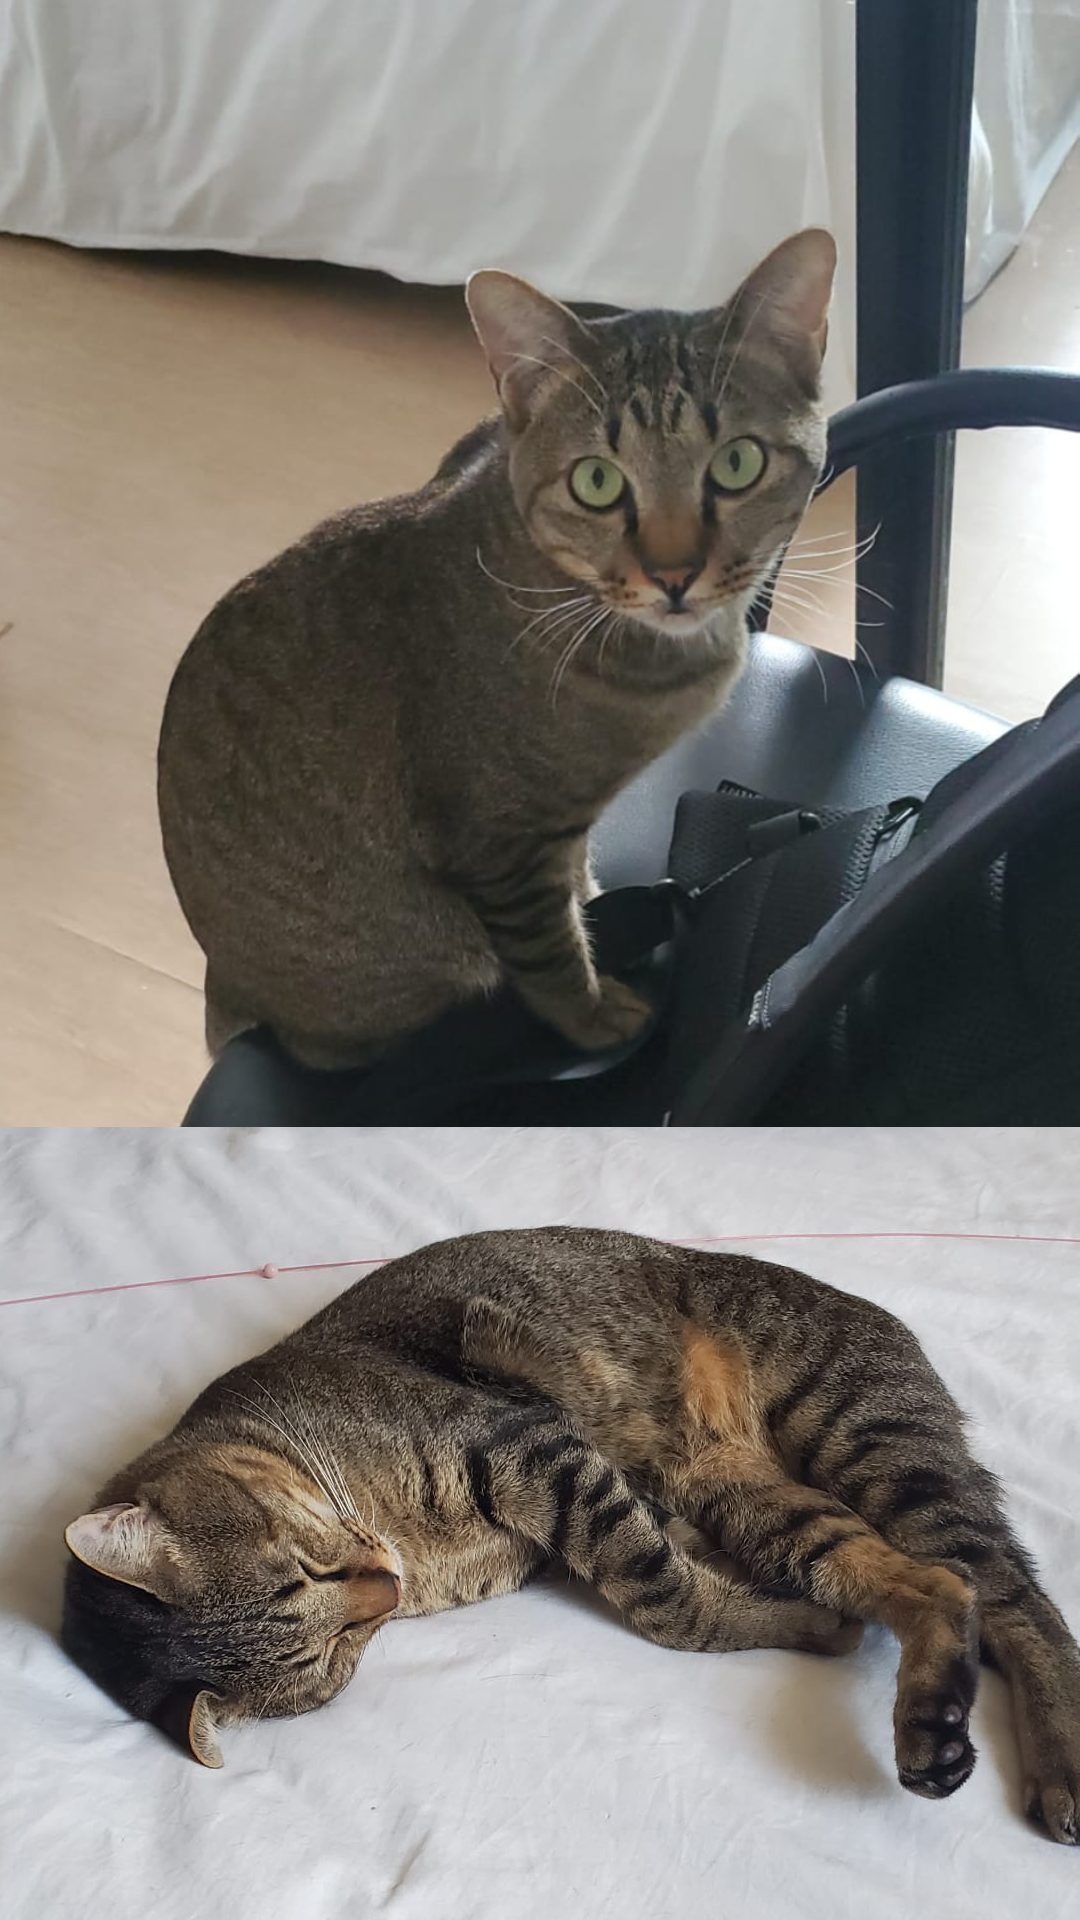
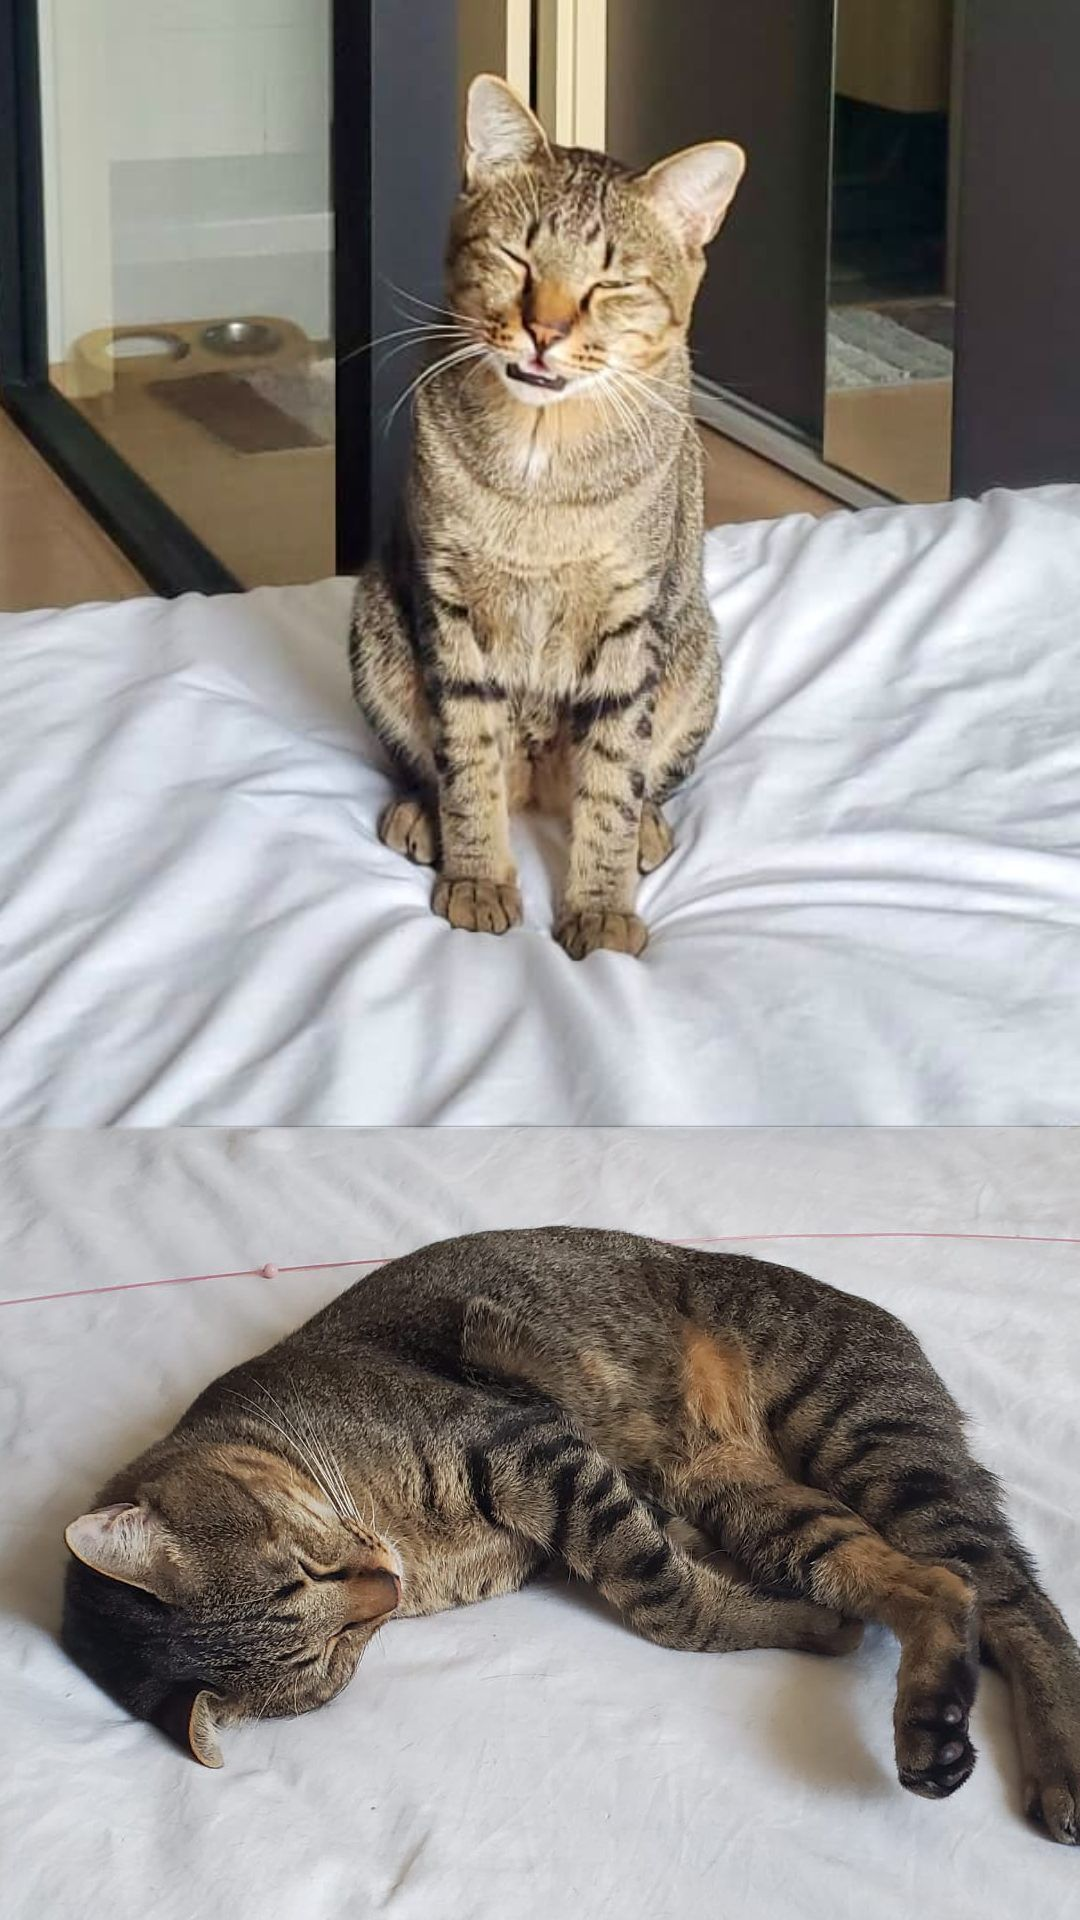
v0.7.6 — el texto de la pareja de Albert y una foto nueva en el collage
El texto de la viñeta 13 es el que escribió ella en tailandés (más de
5.000 baht al día; Anna, con sus conocimientos de enfermería, compró
material y suero y curó a Ninja), con el castellano de Albert y el
inglés, chino y japonés a partir de ahí. El collage de la última
pantalla lleva otra foto de Ninja, recomprimida de 940 KB a 240 KB.
Caché a v17 porque el collage conserva el nombre.

diff --git a/src/i18n/th.js b/src/i18n/th.js
@@ -299,7 +299,7 @@ export default {
       { t: 'ฟื้นตัว',
         d: 'เขารอดชีวิต พอลืมตาขึ้นมา แอนนายังอยู่ตรงนั้น หลับอยู่บนเก้าอี้' },
       { t: 'รักษาตัวที่บ้าน',
-        d: 'สัตวแพทย์ขอ 5,000 บาทเพื่อรักษาให้หายสนิท แต่แอนนามีเงินไม่พอ เธอจึงพานินจากลับบ้าน แล้วดูแลจนหายดีด้วยตัวเอง ด้วยความรักเต็มหัวใจ' },
+        d: 'สัตวแพทย์แจ้งว่าต้องมีค่าใช้จ่ายมากกว่า5พันบาทต่อวัน เพื่อรักษาให้หายสนิท แต่แอนนามีเงินไม่พอ ด้วยความรู้ที่เธอมีด้านการพยาบาล เธอจึงพานินจากลับบ้าน ซื้ออุปกรณ์ และน้ำเกลือ แล้วดูแลจนหายดีด้วยตัวเอง ด้วยความรักเต็มหัวใจ' },
       { t: 'นินจาแสนสุข',
         d: 'ในที่สุดเขาก็หายดีเป็นปกติ แมวที่ไม่เคยเข้าใกล้มนุษย์คนไหน ตอนนี้ยอมให้กอด นอนหงายท้อง และวิ่งไล่ทุกอย่างที่ขยับได้' },
       { t: 'ที่บ้าน',

diff --git a/src/i18n/ja.js b/src/i18n/ja.js
@@ -299,7 +299,7 @@ export default {
       { t: '回復',
         d: '命は助かりました。目を開けると、アンナはまだそこにいて、椅子で眠っていました。' },
       { t: 'アンナの看病',
-        d: '獣医さんは完治のために5,000バーツが必要だと言いましたが、アンナにはそんなお金がありませんでした。そこでニンジャを家に連れて帰り、たっぷりの愛情で自分の手で治しました。' },
+        d: '獣医さんは、完全に治すには1日5,000バーツ以上かかると言いましたが、アンナにはそれだけのお金がありませんでした。看護の知識を活かして、ニンジャを家に連れて帰り、必要な道具と点滴を買い、たっぷりの愛情で、すっかり元気になるまで自分の手で世話をしました。' },
       { t: 'しあわせなニンジャ',
         d: 'ついにすっかり元気になりました。どんな人間にも近づかなかったあの猫が、今では甘えて、おなかを見せて眠り、動くものはなんでも追いかけます。' },
       { t: 'おうちで',

diff --git a/src/i18n/es.js b/src/i18n/es.js
@@ -310,7 +310,7 @@ export default {
       { t: 'La recuperación',
         d: 'Le salvaron la vida. Cuando abrió los ojos, Anna seguía allí, dormida en la silla.' },
       { t: 'Anna lo cura en casa',
-        d: 'El veterinario pedía 5.000 THB para acabar de curarlo y Anna no tenía tanto dinero. Así que se llevó a Ninja a casa y lo curó ella misma, con mucho cariño.' },
+        d: 'El veterinario les informó de que la recuperación completa costaría más de 5.000 baht al día, pero Anna no tenía suficiente dinero. Aprovechando sus conocimientos de enfermería, se llevó a Ninja a casa, compró el material y el suero, y lo cuidó ella misma hasta que se recuperó por completo, con todo su cariño.' },
       { t: 'Ninja feliz',
         d: 'Por fin se curó del todo. Y aquel gato que nunca se acercaba a ningún humano ahora se deja mimar, duerme panza arriba y persigue todo lo que se mueve.' },
       { t: 'En casa',

diff --git a/public/sw.js b/public/sw.js
@@ -37,6 +37,10 @@
    excepcion, y queda escrita para que no parezca que se subio por
    costumbre. Ver `VERSION.md`. */
 
+/* v17 (2026-09-19, tarde): `ninja/collage.jpg` se sustituye por otra foto
+   de Ninja (mismo nombre, otro contenido: la pareja de Albert queria una
+   distinta). De paso se recomprime de 940 KB a 240 KB para el movil. */
+
 /* v16 (2026-09-19): `gimnasio.png` pasa a ser el gimnasio nuevo de
    Albert (mismo nombre, dibujo distinto) y `michi_cansado-negro.png` se
    volvio a exportar sin el flequillo. La viñeta nueva del comic
@@ -69,7 +73,7 @@
    esto quien ya tuviera la app seguiria viendo los de antes.
 
    v4 fue por lo mismo: `limpiar` paso de cubo a escoba. */
-const CACHE = 'michifit-v16';
+const CACHE = 'michifit-v17';
 
 /* Lo mínimo para arrancar sin red. El resto se va guardando solo según
    se usa: la app es pequeña y se cachea entera en la primera visita. */

diff --git a/src/i18n/en.js b/src/i18n/en.js
@@ -304,7 +304,7 @@ export default {
       { t: 'Getting better',
         d: 'They saved his life. When he opened his eyes, Anna was still there, asleep in the chair.' },
       { t: 'Healing at home',
-        d: 'The vet asked for 5,000 THB to finish treating him, and Anna did not have that much money. So she took Ninja home and nursed him back to health herself, with lots of love.' },
+        d: 'The vet said a full recovery would cost more than 5,000 baht a day, but Anna did not have enough money. Using her nursing skills, she took Ninja home, bought the supplies and an IV drip, and cared for him herself until he was fully recovered, with all her love.' },
       { t: 'Happy Ninja',
         d: 'At last he made a full recovery. And the cat who never went near any human now lets himself be cuddled, sleeps belly-up and chases everything that moves.' },
       { t: 'Home',

diff --git a/src/i18n/zh.js b/src/i18n/zh.js
@@ -298,7 +298,7 @@ export default {
       { t: '康复',
         d: '它活下来了。睁开眼睛时，安娜还在那里，睡在椅子上。' },
       { t: '在家养伤',
-        d: '兽医要5000泰铢才能把它彻底治好，可安娜没有那么多钱。于是她把忍者带回了家，自己把它照顾好，满怀爱心。' },
+        d: '兽医说要彻底治好，每天的费用超过 5000 泰铢，可安娜没有足够的钱。凭着自己的护理知识，她把忍者带回家，买了器材和输液用的生理盐水，亲自照顾它直到完全康复，满怀爱心。' },
       { t: '快乐的忍者',
         d: '它终于完全康复了。那只从不靠近任何人的猫，现在愿意让人抱，肚皮朝天地睡觉，看见会动的东西就追。' },
       { t: '在家',

diff --git a/CURRENT.md b/CURRENT.md
@@ -12,8 +12,8 @@ enlace, sin cuentas ni usuarios**: quien tenga el link la abre, la
 instala y usa. Lo que queda son retoques y decidir cosas con uso real.
 
 ## Versión y despliegue
-- **Versión estándar: `v0.7.5`** (etiqueta de Git). Ver `VERSION.md`.
-- **Caché del service worker: `michifit-v16`.**
+- **Versión estándar: `v0.7.6`** (etiqueta de Git). Ver `VERSION.md`.
+- **Caché del service worker: `michifit-v17`.**
 - En vivo: https://michifit.vercel.app · cada `git push` a `main`
   despliega solo.
 - Repo público: https://github.com/TheAicreativecontent/MichiFit
@@ -37,7 +37,7 @@ instala y usa. Lo que queda son retoques y decidir cosas con uso real.
 **Última tanda (subida en la `v0.7.5`):**
 - **Viñeta nueva del cómic**, la 13 de 15: «Anna lo cura en casa». El
   veterinario pedía 5.000 THB, Anna no los tenía y se llevó a Ninja a
-  casa. Va entre «La recuperación» y «Ninja feliz». Cinco idiomas.
+  casa (el texto se cambió después: ver la tanda siguiente). Va entre «La recuperación» y «Ninja feliz». Cinco idiomas.
   Imagen: `public/comic/12b-cuidados.jpg` (de `IMG/Comic/Act_09d.jpg`).
 - **Ritmo de las barras: arreglado un fallo de fondo.** Con
   `Math.ceil` la primera caca salía a los **5 minutos** de limpiar, y como
@@ -56,8 +56,7 @@ instala y usa. Lo que queda son retoques y decidir cosas con uso real.
 - `michi_cansado-negro.png` re-exportado por Albert, sin el flequillo.
 - **QR de PromptPay encendido, PRIMERO en Karma** (`ACTIVO = true`,
   `public/karma/promptpay_qr.png`, recorte a logo + código). Es el de la
-  pareja de Albert, para donativos. **Ver el punto 1 de «Qué toca ahora»:
-  falta confirmar con ella antes del push.**
+  pareja de Albert, para donativos. Ella lo confirmó antes de subirlo.
 - **Al terminar el cómic, «Cerrar» y «Saltar» llevan a Karma** (solo al
   revisar la historia; en el primer arranque sigue yendo a la bienvenida).
 - **Los cuatro puntos de simplificar que quedaban (2 a 5 de
@@ -76,12 +75,18 @@ instala y usa. Lo que queda son retoques y decidir cosas con uso real.
   los cinco idiomas (`karma.salir`): quien llega desde el cómic y no sabe
   aún que hay un menú abajo puede volver a Inicio.
 
+**Después de la `v0.7.5` (subido en la `v0.7.6`):**
+- **Viñeta 13 con el texto de la pareja de Albert** (escrito por ella en
+  tailandés: el veterinario pedía más de 5.000 baht al día; Anna, con sus
+  conocimientos de enfermería, se llevó a Ninja, compró material y suero y
+  lo curó) y **foto nueva en el collage** de la última pantalla (Ninja
+  sentado en la cama). El collage se recomprimió de 940 KB a 240 KB;
+  el original de Albert está en `IMG/Ninja_collage_2026-09-19_original.jpg`.
+  Caché `michifit-v17`.
+
 ## Qué toca ahora, por orden
-1. **Nada pendiente de subir.** La `v0.7.5` se subió el 2026-09-19 con la
-   confirmación de Albert y de la dueña del QR de PromptPay (el código lleva
-   dentro su número de identidad; el repo es público y un commit no se
-   retira, y aun así lo quiso). El original entero del QR está fuera del
-   repo, en `../_ARCHIVO/qr-promptpay-sin-publicar/`.
+1. **Nada pendiente de subir.** La `v0.7.6` está en vivo. Ahora toca esperar el
+   feedback de amigos y familia.
 2. **Calibrar con uso real** (amigos y familia): el ritmo de las barras y
    el 95 de `FORMA_CONTENTO`. Cada número está en un solo sitio
    (`engine/cuidados.js`, `engine/constantes.js`).

diff --git a/VERSION.md b/VERSION.md
@@ -7,13 +7,13 @@
 
 ## La estándar, hoy
 
-**v0.7.5** — 19 de septiembre de 2026.
+**v0.7.6** — 19 de septiembre de 2026.
 
 | Dónde | Qué vale |
 |---|---|
-| Etiqueta de Git | `v0.7.5` |
-| `package.json` | `"version": "0.7.5"` |
-| Caché del service worker | `michifit-v16` |
+| Etiqueta de Git | `v0.7.6` |
+| `package.json` | `"version": "0.7.6"` |
+| Caché del service worker | `michifit-v17` |
 | Dentro de la app | Ajustes, última línea |
 | En vivo | https://michifit.vercel.app |
 | Repositorio | https://github.com/TheAicreativecontent/MichiFit |
@@ -84,6 +84,13 @@ Al cerrar una tanda de trabajo que merezca marcarse:
 5. Commit, `git tag -a vX.Y.Z`, y `git push --follow-tags`.
 
 ## Historial
+
+- **v0.7.6** (2026-09-19) — Cambios de la pareja de Albert, media hora
+  después de lanzar: el texto de la viñeta 13 es el que escribió ella en
+  tailandés (más de 5.000 baht al día; Anna, con sus conocimientos de
+  enfermería, compró material y suero y curó a Ninja) y el collage de la
+  última pantalla lleva otra foto, recomprimida de 940 a 240 KB. Caché
+  `michifit-v17`.
 
 - **v0.7.5** (2026-09-19) — La versión que se manda a amigos y familia, con
   el enlace y sin cuentas. Viñeta nueva del cómic («Anna lo cura en

diff --git a/COMIC.md b/COMIC.md
@@ -82,8 +82,13 @@ de Ninja»**, con el collage de fotos de verdad que hizo Albert y, solo al adopt
 color.
 
 **La 13 (nueva, 2026-09-19) cuenta la etapa que faltaba**, y la propuso la
-pareja de Albert: el veterinario pedía 5.000 THB para acabar de curar a
-Ninja, Anna no tenía tanto dinero y se lo llevó a casa. Va entre «La
+pareja de Albert: el veterinario pedía más de 5.000 baht AL DÍA para
+curarlo del todo, Anna no tenía tanto dinero y, con lo que sabe de
+enfermería, se llevó a Ninja a casa, compró material y suero y lo curó
+ella. **El texto es el que escribió ella en tailandés** (media hora
+después de subirse la primera versión, que era de Albert); el castellano
+es la traducción de Albert, y el inglés, chino y japonés salen de ahí.
+En el tailandés se quitó una «นะ» suelta que sobraba tras «แจ้งว่า». Va entre «La
 recuperación» y «Ninja feliz» (Albert lo confirmó). El archivo se llama
 `12b-cuidados.jpg` y no `13-...` para no renombrar los que ya estaban:
 cambiar el nombre de una imagen obliga a subir la caché. El orden real lo

diff --git a/SESSION_MAP.md b/SESSION_MAP.md
@@ -1759,6 +1759,15 @@ editor y en «Mi objetivo»; y la nota del escudo más un cuarto párrafo en el
 aviso «el michi te cubrió un día» ya existía, así que se quitó una nota
 duplicada (ver `LESSONS.md`). Se subió como **v0.7.5**.
 
+**Cambios de la pareja de Albert, media hora después de lanzar.** Quiso
+otro texto para la viñeta 13, escrito por ella en tailandés (5.000 baht
+**al día**, y que Anna, con lo que sabe de enfermería, compró material y
+suero), y otra foto en el collage. Albert tradujo el texto al castellano y
+se sacaron el inglés, el chino y el japonés. En el tailandés se quitó una
+«นะ» suelta. El collage nuevo pesaba 940 KB y se recomprimió a 240 KB (el
+original, en `IMG/`); como conserva el nombre, caché a v17. Se subió como
+**v0.7.6**.
+
 **Un despiste que se aclaró.** Albert dijo que `michi_sediento-negro` ya
 estaba en `public/michi/`, pero no estaba: lo único nuevo era
 `michi_cansado-negro.png`, que es el mismo dibujo de la botella. Lo
